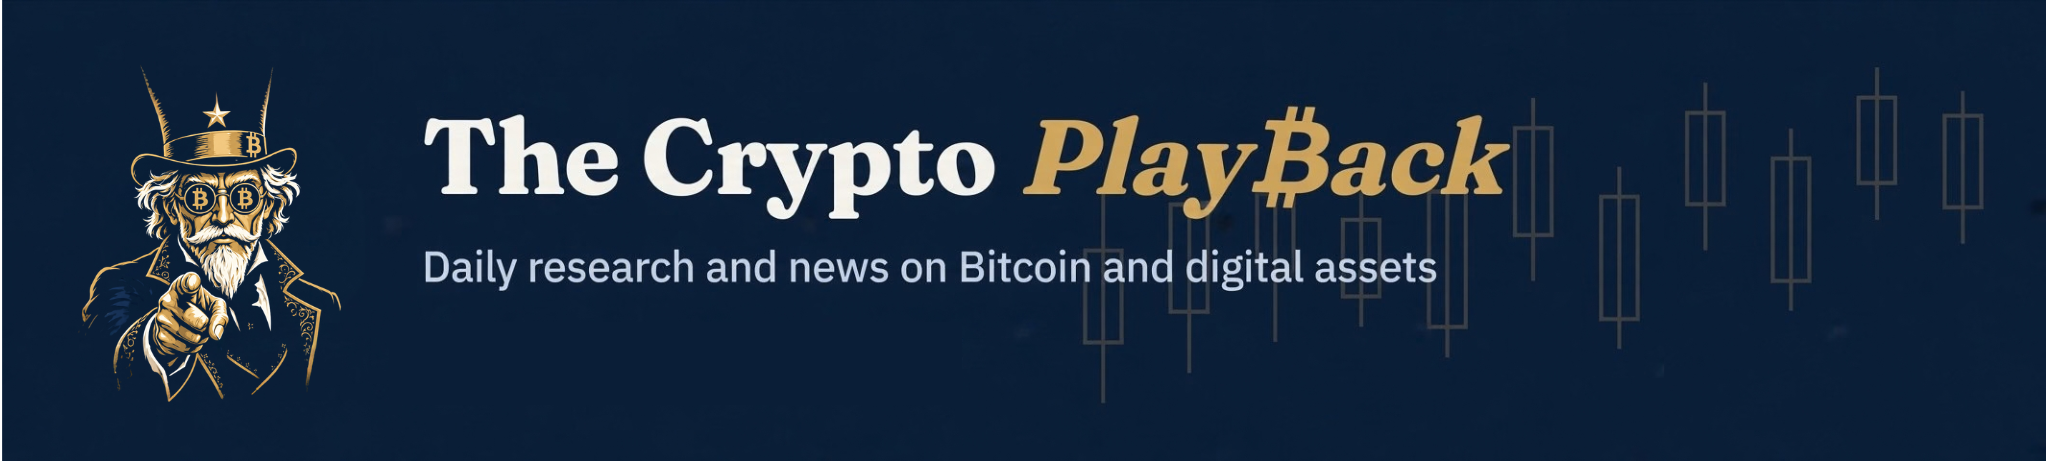
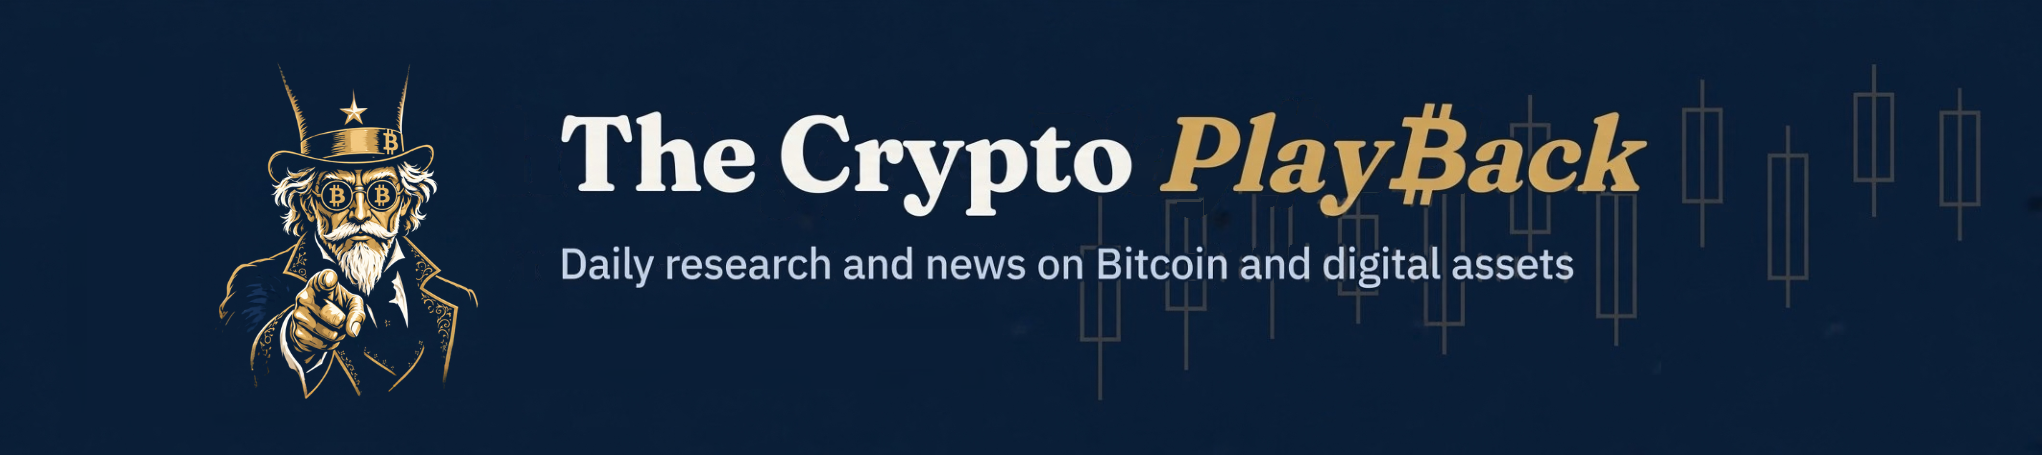
Newsletter v3: header group (mascot, title, tagline, date) moved toward the centre; candles untouched

Changed region(s): [[0.0309, 0.1846, 0.833, 0.8615], [0.8639, 0.1846, 0.9873, 0.6154]]

diff --git a/scripts/make_header_centered.py b/scripts/make_header_centered.py
@@ -1,0 +1,133 @@
+"""Rebuilds the newsletter header art (assets/email-v3-header.png) with the mascot + title + tagline group slid
+toward the centre while the candlestick chart stays exactly where the designer put it. Run by hand when the artwork
+changes; the per-issue date is drawn on top by email_images.make_issue_header (it uses the same SHIFT).
+
+The designer's PNG has the date and a thin white edge baked in, so this:
+  1. trims the white edge,
+  2. rebuilds the background under the mascot / title / tagline / date (candle lines are re-drawn across the gaps),
+  3. pastes the mascot and the title + tagline back SHIFT pixels to the right.
+"""
+import os
+import sys
+
+import numpy as np
+from PIL import Image
+
+ROOT = os.path.dirname(os.path.dirname(os.path.abspath(__file__)))
+SRC = os.path.expanduser("~/Downloads/crypto-playback-newsletter zip/assets/TCP_Header_1_2.png")
+OUT = os.path.join(ROOT, "assets", "email-v3-header.png")
+if not os.path.exists(SRC):
+    SRC = os.path.join(ROOT, "docs", "newsletter-v3-design", "assets", "TCP_Header_1_2.png")
+SHIFT = 140                  # pixels (on the 2042px-wide art) the group moves right
+TRIM = 3                     # white edge to cut off
+LINE_MIN = 40                # luminance above which a pixel can be part of a candle line
+
+
+def dilate(mask, r):
+    out = mask.copy()
+    for dy in range(-r, r + 1):
+        for dx in range(-r, r + 1):
+            if dx * dx + dy * dy <= r * r:
+                out |= np.roll(np.roll(mask, dy, axis=0), dx, axis=1)
+    return out
+
+
+def box_blur(a, r):
+    """Separable box blur of a 2-D or 3-D float array (edges handled by the caller's normalisation)."""
+    k = 2 * r + 1
+    out = a
+    for axis in (0, 1):
+        c = np.cumsum(np.pad(out, [(r + 1, r) if i == axis else (0, 0) for i in range(out.ndim)], mode="edge"), axis=axis)
+        sl_hi = [slice(None)] * out.ndim; sl_lo = [slice(None)] * out.ndim
+        sl_hi[axis] = slice(k, None); sl_lo[axis] = slice(0, -k)
+        out = (c[tuple(sl_hi)] - c[tuple(sl_lo)]) / k
+    return out
+
+
+def fill_holes(img, hole):
+    """Rebuild the background under `hole`: a smooth estimate of the plain background (from the pixels around it),
+    plus the candle lines, redrawn straight across each gap (vertical lines from the pixels above/below, horizontal
+    edges from the pixels left/right)."""
+    h, w, _ = img.shape
+    f = img.astype(float)
+    lum = f.sum(axis=2) / 3.0
+    plain = (~hole) & (lum < LINE_MIN)                      # real background pixels only (no candle lines)
+    wgt = box_blur(plain.astype(float), 22)
+    smooth = box_blur(f * plain[..., None], 22) / np.maximum(wgt, 1e-3)[..., None]
+    flat = np.array([10.0, 30.0, 55.0])
+    smooth = np.where((wgt > 0.05)[..., None], smooth, flat)
+
+    line_v = np.zeros((h, w), bool); line_h = np.zeros((h, w), bool)
+    val_v = np.zeros_like(f); val_h = np.zeros_like(f)
+    for axis, flag, val in ((0, line_v, val_v), (1, line_h, val_h)):
+        for i in (range(w) if axis == 0 else range(h)):
+            line = hole[:, i] if axis == 0 else hole[i, :]
+            n = len(line); j = 0
+            while j < n:
+                if not line[j]:
+                    j += 1; continue
+                k = j
+                while k < n and line[k]:
+                    k += 1
+                a_, b_ = j - 1, k
+                if a_ >= 0 and b_ < n:
+                    ca = f[a_, i] if axis == 0 else f[i, a_]
+                    cb = f[b_, i] if axis == 0 else f[i, b_]
+                    la, lb = ca.sum() / 3.0, cb.sum() / 3.0
+                    if la > LINE_MIN and lb > LINE_MIN and abs(la - lb) < 25 and la < 95 and lb < 95:   # a candle line runs through the gap
+                        c = (ca + cb) / 2.0
+                        if axis == 0:
+                            flag[j:k, i] = True; val[j:k, i] = c
+                        else:
+                            flag[i, j:k] = True; val[i, j:k] = c
+                j = k
+    res = f.copy()
+    res[hole] = smooth[hole]
+    use_h = hole & line_h & ~line_v
+    res[use_h] = val_h[use_h]
+    res[hole & line_v] = val_v[hole & line_v]
+    return res
+
+
+def build():
+    im = Image.open(SRC).convert("RGB")
+    w0, h0 = im.size
+    im = im.crop((TRIM, TRIM, w0 - TRIM, h0 - TRIM))
+    a = np.asarray(im).astype(float)
+    h, w, _ = a.shape
+    lum = a.sum(axis=2) / 3.0
+    ox = TRIM                                              # original -> cropped coordinates
+
+    mascot_box = np.zeros((h, w), bool)
+    mascot_box[60 - ox:430 - ox, 70 - ox:360 - ox] = True
+    bright = lum > 95
+    bright[:, :380 - ox] = False                           # text lives right of the mascot
+    text_all = dilate(bright, 3)                           # title + tagline + date, with their soft edges
+    date_rows = np.zeros((h, w), bool)
+    date_rows[312 - ox:392 - ox, 405 - ox:1005 - ox] = True
+    text_keep = text_all & ~date_rows                      # what moves: title + tagline (the date is redrawn live)
+    hole = mascot_box | text_all | date_rows               # the whole old date band is rebuilt (the date is redrawn live)
+
+    bg = fill_holes(np.asarray(im), hole)                  # background + candles without the group
+
+    # soft alpha masks for the pieces we paste back
+    def soft(mask, blur):
+        m = Image.fromarray((mask * 255).astype(np.uint8))
+        from PIL import ImageFilter
+        return np.asarray(m.filter(ImageFilter.GaussianBlur(blur))).astype(float) / 255.0
+
+    out = bg.copy()
+    src = a
+    for mask, blur in ((mascot_box, 6), (text_keep, 0.8)):
+        alpha = soft(mask, blur)
+        sh_alpha = np.zeros_like(alpha); sh_src = np.zeros_like(src)
+        sh_alpha[:, SHIFT:] = alpha[:, :w - SHIFT]; sh_src[:, SHIFT:] = src[:, :w - SHIFT]
+        out = out * (1 - sh_alpha[..., None]) + sh_src * sh_alpha[..., None]
+    Image.fromarray(np.clip(out, 0, 255).astype(np.uint8)).save(OUT, optimize=True)
+    return OUT, (w, h)
+
+
+if __name__ == "__main__":
+    if len(sys.argv) > 1:
+        SHIFT = int(sys.argv[1])
+    print(build())

diff --git a/scripts/email_images.py b/scripts/email_images.py
@@ -16,9 +16,9 @@ def make_issue_header(dt, out_path):
     d = ImageDraw.Draw(im)
     text = f"{dt.strftime('%A, %B')} {dt.day}, {dt.year}".upper()
     font = ImageFont.truetype(FONT, 44)
-    x, spacing = 424.0, 6.2
+    x, spacing = 421.0 + 140, 6.2      # 140 = the shift make_header_centered.py applied to the title group (art is trimmed 3px)
     for ch in text:
-        d.text((x, 363), ch, font=font, fill=(176, 193, 221), anchor="ls")
+        d.text((x, 360), ch, font=font, fill=(176, 193, 221), anchor="ls")
         x += d.textlength(ch, font=font) + spacing
     im.save(out_path, optimize=True)
     return out_path
